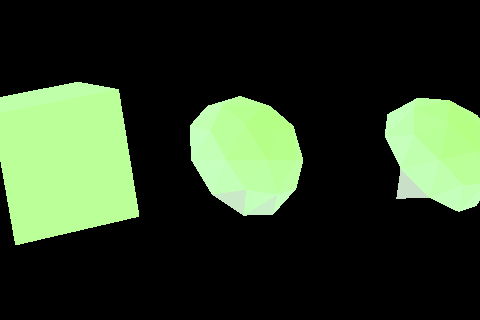
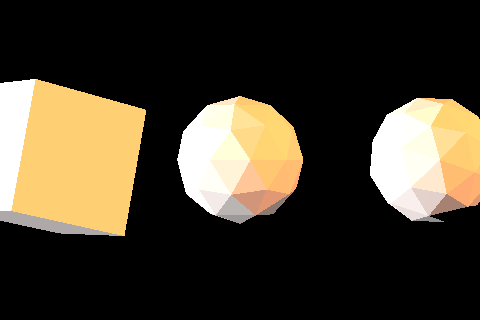
gamut rendered every invocation to it's own image, sane values restored to desaturation and lights

Changed region(s): [[0.0, 0.25, 0.3125, 0.7812], [0.3438, 0.2812, 0.6562, 0.7188], [0.75, 0.2812, 1.0, 0.7188]]

diff --git a/src/colorspace_conversion.rs b/src/colorspace_conversion.rs
@@ -47,6 +47,8 @@ pub fn coloring_book(canvas: &mut RgbImage) {
             canvas.put_pixel(i, j, sRGB_to_display(xyY_to_sRGB(vector(x, y, 1.))));
         }
     }
+
+    
     for λ in 380..780 {
         let spectra = monochroma_spectra(λ as f32, 1.);
         let xyY = CIEXYZ_to_xyY(spectra_to_CIEXYZ(&spectra));
@@ -158,7 +160,7 @@ pub fn xyY_to_sRGB(xyY: Vector) -> Vector {
 
     // NOTE: THIS DEVIATES FROM AN ACCURATE COLOR MODEL
     // I think this will desaturate?
-    let factor = 2.5;
+    let factor = 1.2;
     let sR_linear = (sR_linear + (factor - 1.)) / factor;
     let sG_linear = (sG_linear + (factor - 1.)) / factor;
     let sB_linear = (sB_linear + (factor - 1.)) / factor;
@@ -183,12 +185,12 @@ pub fn sRGB_to_display(sRGB: Vector) -> Rgb<u8> {
         // if sR > 1. || sG > 1. || sB > 1. || sR < 0. || sG < 0. || sB < 0. {
 
         // if sR > 1. || sG > 1. || sB > 1. {
-        let sR = pixel_ready(sR / 5.);
-        let sG = pixel_ready(sG / 5.);
-        let sB = pixel_ready(sB / 5.);
+        // let sR = pixel_ready(sR / 5.);
+        // let sG = pixel_ready(sG / 5.);
+        // let sB = pixel_ready(sB / 5.);
         // return Rgb([sR, sG, sB]);
 
-        return Rgb([0, 0, 0]);
+        return Rgb([255, 0, 255]);
     }
     // println!("{x} {y}");
     let sR = pixel_ready(sR);

diff --git a/src/main.rs b/src/main.rs
@@ -20,8 +20,9 @@ mod transformations;
 
 extern crate stopwatch;
 
-use colorspace_conversion::{black_body_sRGB, coloring_book, draw_colors_in_xyz};
+use colorspace_conversion::{black_body_sRGB, coloring_book, draw_colors_in_xyz, sRGB_to_display, spectra_to_CIEXYZ, spectra_to_sRGB, CIEXYZ_to_xyY};
 use image::{ImageBuffer, ImageFormat, Rgb, RgbImage};
+use lighting::monochroma_spectra;
 use std::{thread, time::Duration};
 use stopwatch::Stopwatch;
 
@@ -86,12 +87,19 @@ fn draw_colors() {
     let mut canvas: RgbImage = ImageBuffer::new(horizontal_res, vertical_res);
     coloring_book(&mut canvas);
     // draw_colors_in_xyz(&mut canvas);
-    save_image(canvas);
+    canvas
+        .save_with_format("color_gamut.png", ImageFormat::Png)
+        .unwrap();
 }
 fn main() {
     check_debug();
-    println!("{:?}", black_body_sRGB(1.));
+    println!("{:?}", (spectra_to_sRGB(&monochroma_spectra(500., 1.))));
+    println!("{:?}", (spectra_to_CIEXYZ(&monochroma_spectra(500., 1.))));
+    println!("{:?}", CIEXYZ_to_xyY(spectra_to_CIEXYZ(&monochroma_spectra(500., 1.))));
+
+
+    draw_colors();
+
     main_loop();
     // single(0)
-    // draw_colors();
 }

diff --git a/src/scene.rs b/src/scene.rs
@@ -53,13 +53,13 @@ pub fn simple_scene() -> Scene {
         far_clipping_plane: 1e6,
         exposure_time: 1.,
     };
-    // let light = point_light(vertex(-100.0, 0.0, 0.0), RIGHT, norm_black_body(6000.));
+    let light = point_light(vertex(-100.0, 0.0, 0.0), RIGHT, norm_black_body(6000.));
     // let light = point_light(vertex(-100.0, 0.0, 0.0), RIGHT, 1000*const_spectra(380.));
-    let lightb = point_light(vertex(100.0, 100.0, 100.0), RIGHT, monochroma_spectra(550.,5e-1));
+    // let lightb = point_light(vertex(100.0, 100.0, 100.0), RIGHT, monochroma_spectra(460.,5e-1));
 
-    // let lightb = point_light(vertex(100.0, 100.0, 100.0), RIGHT, norm_black_body(2000.));
+    let lightb = point_light(vertex(100.0, 100.0, 100.0), RIGHT, norm_black_body(2000.));
     // println!("{:?}",light.radiant_flux.from_λ(700.));
-    let lights = vec![lightb];
+    let lights = vec![light, lightb];
     let mut meshes = Vec::new();
     // let mesh = unit_cube(vector(0.0, 0.0, -5.0));
     // let mesh = sample_mesh(vector(0.0, 0.0, -3.0));
